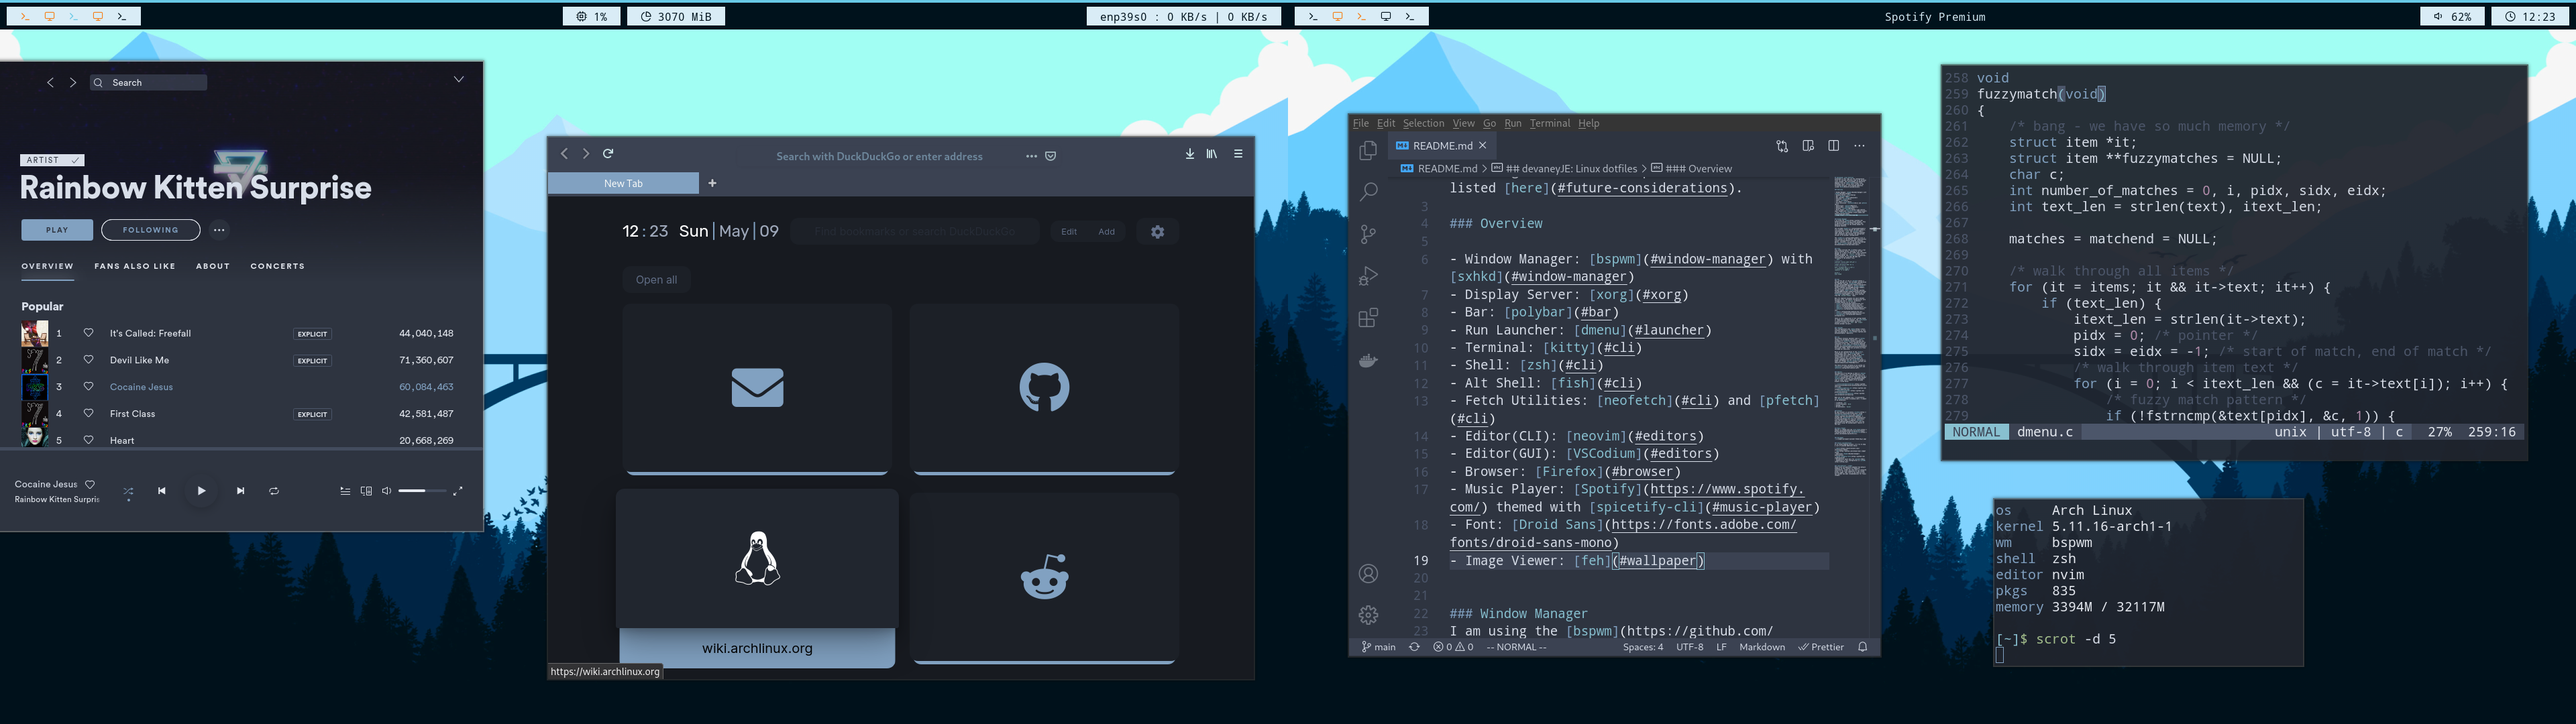
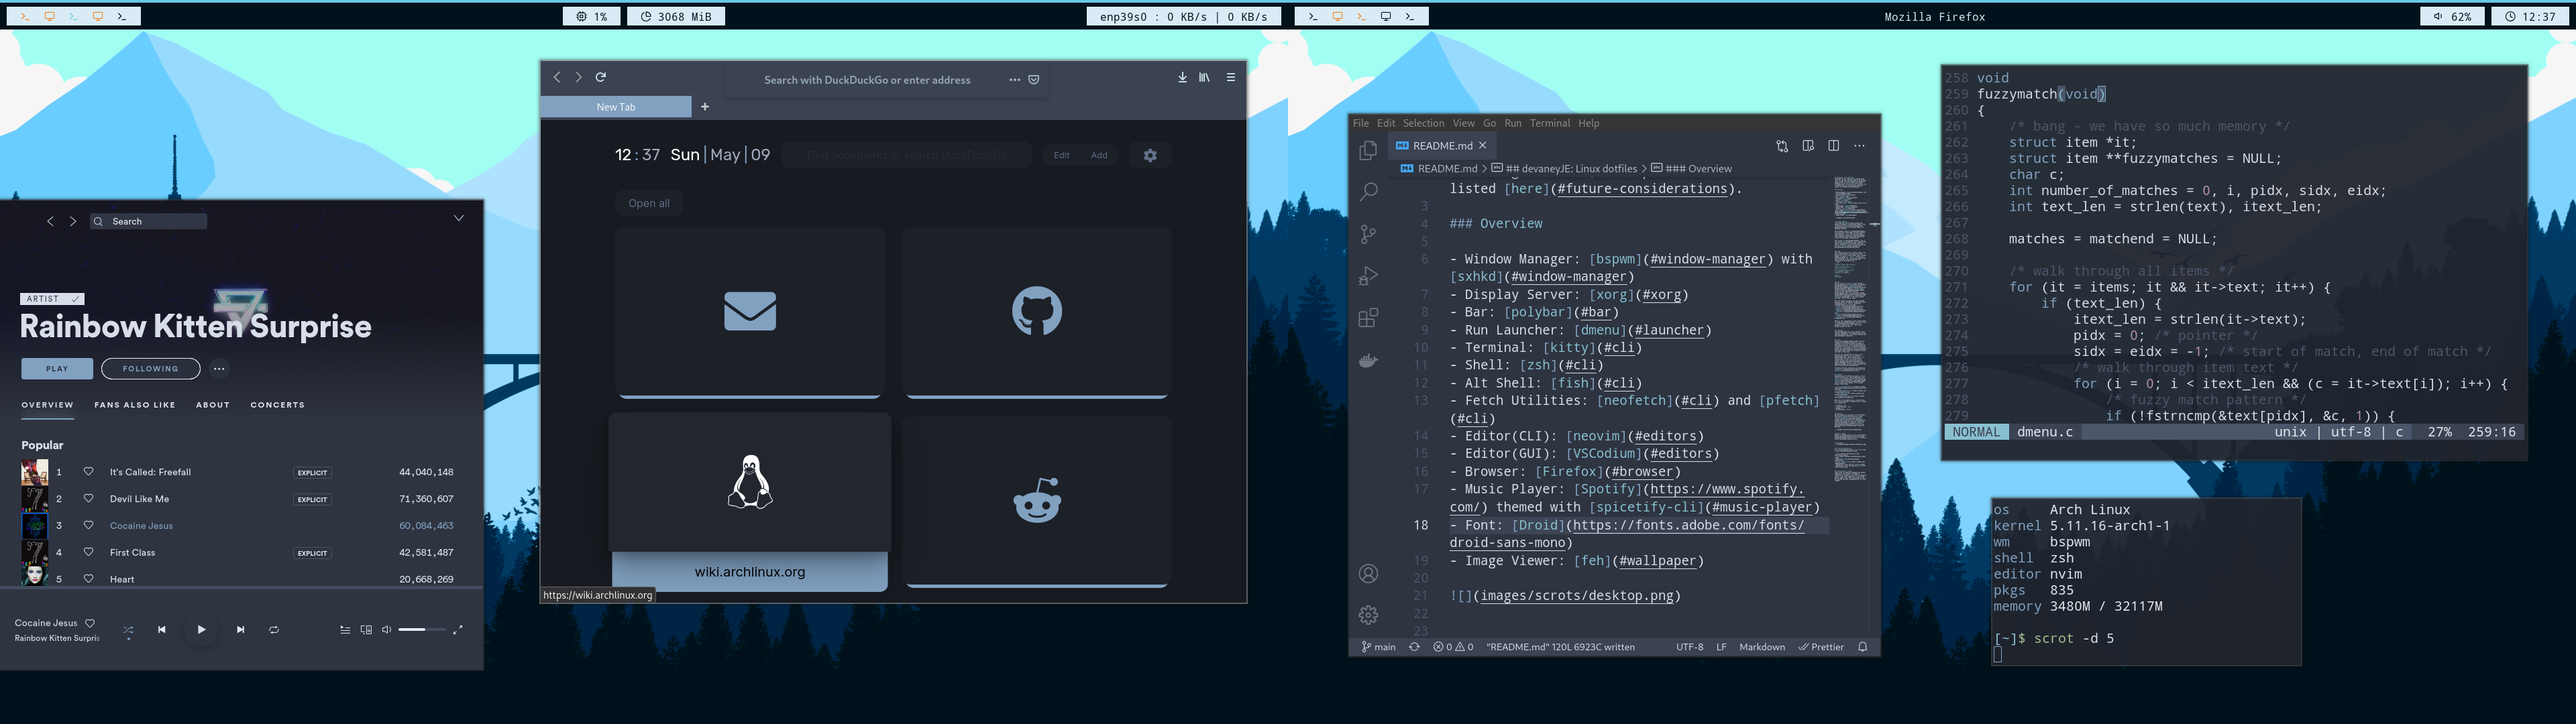
screenshots

diff --git a/README.md b/README.md
@@ -15,7 +15,7 @@ Contained in this repo are the configuration files for various utilities used on
 - Editor(GUI): [VSCodium](#editors)
 - Browser: [Firefox](#browser)
 - Music Player: [Spotify](https://www.spotify.com/) themed with [spicetify-cli](#music-player)
-- Font: [Droid Sans](https://fonts.adobe.com/fonts/droid-sans-mono)
+- Font: [Droid](https://fonts.adobe.com/fonts/droid-sans-mono)
 - Image Viewer: [feh](#wallpaper)
 
 ![](images/scrots/desktop.png)
